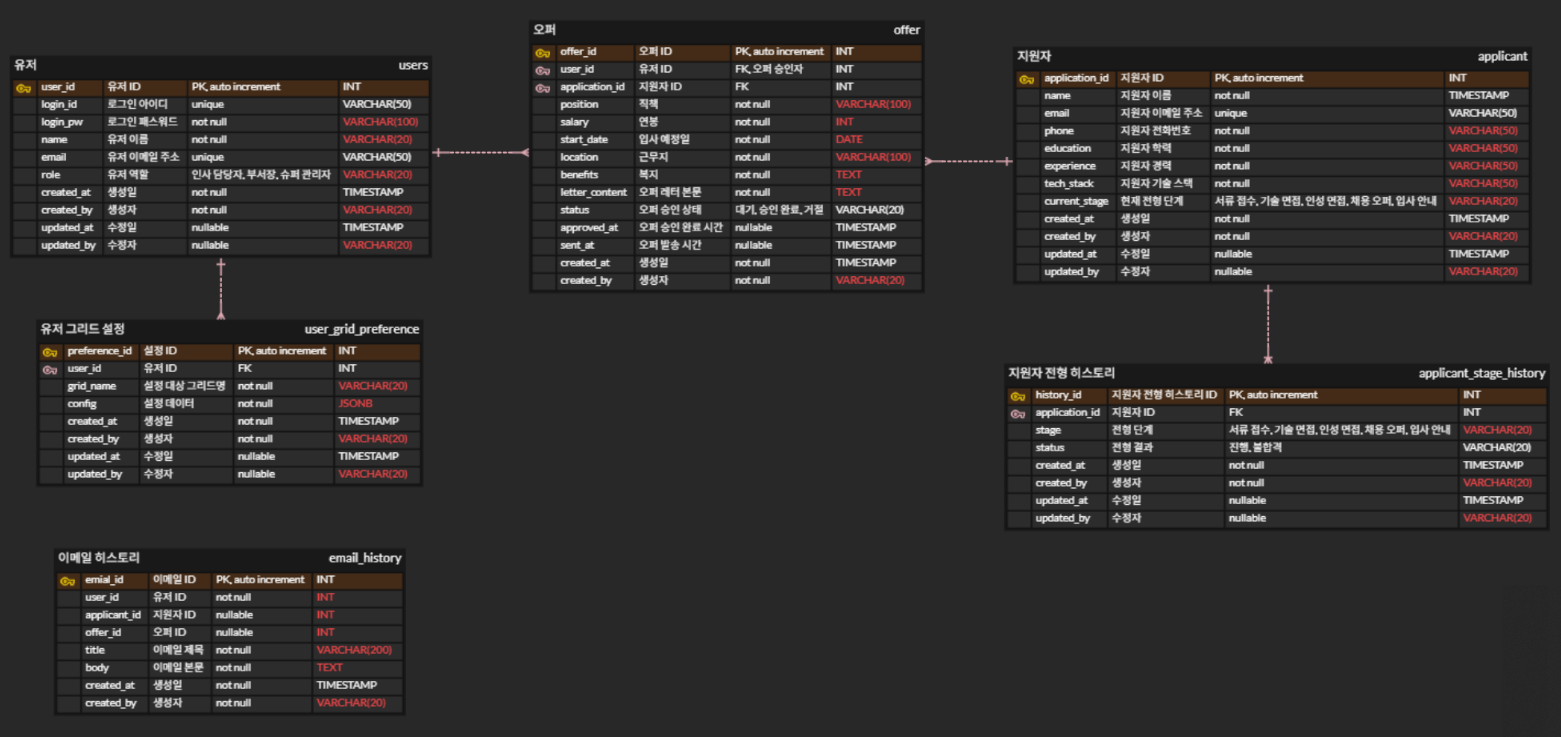
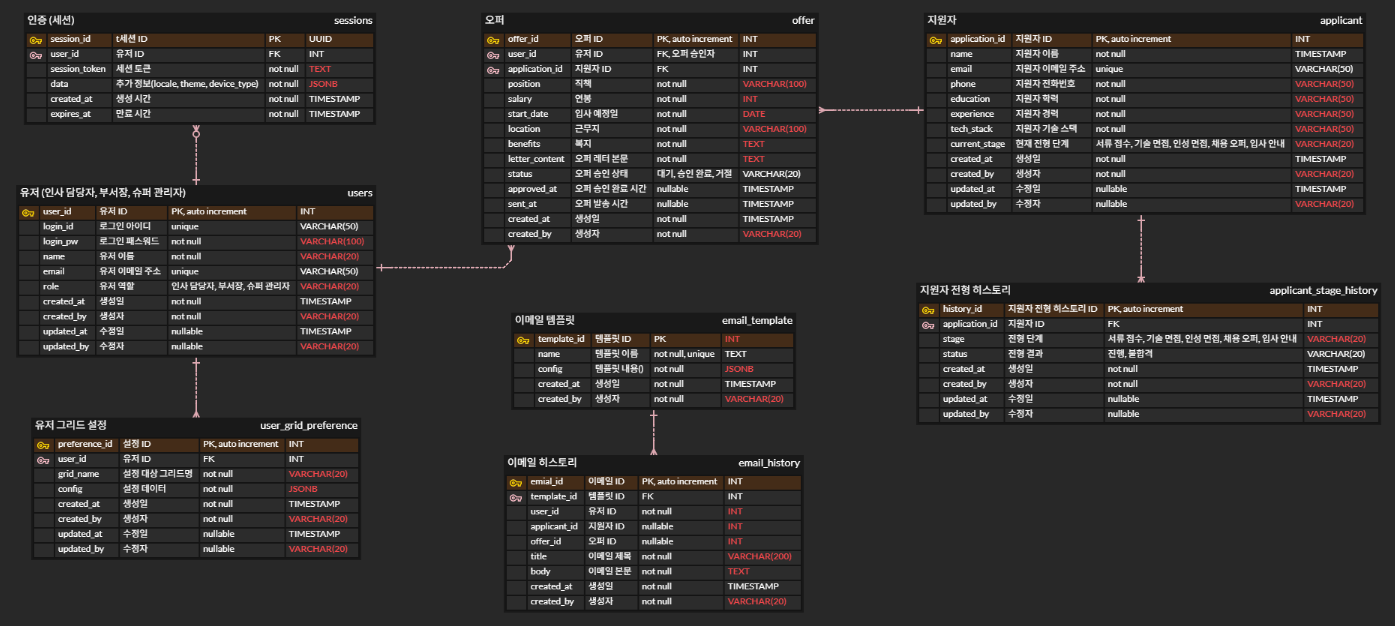
docs: README.md - 요구사항 수정

diff --git a/README.md b/README.md
@@ -26,7 +26,7 @@
 - **컬럼 검색**: 헤더에서 컬럼 이름으로 빠른 검색
 - **설정 저장·복원**: 서버 저장 후 **재접속 시 자동 복원**
 
-<br>
+<br><br>
 
 ### 🎯 채용 오퍼 (Offer)
 
@@ -38,6 +38,7 @@
 | 승인 진행 상태 표시   | 오퍼 생성 후 **승인 대기** 상태를 **아이콘·레이블**로 직관적으로 표시할 수 있어야 한다.                              |
 | 승인 이력 조회        | 생성된 오퍼 레터 클릭 시 각 승인권자의 **처리 상태(승인·대기·거절)** 및 **코멘트**를 확인할 수 있어야 한다.          |
 | 메일 전송 활성화 조건 | **모든 승인권자**가 **승인 완료** 상태일 때만 **[전송하기]** 버튼이 활성화되며, 클릭 시 이메일 발송이 가능해야 한다. |
+| 메일 템플릿 조회      | 셀렉트 박스로 사전에 등록된 메일 템플릿을 선택하여 조회할 수 있어야한다.                                             |
 
 <br>
 
@@ -45,10 +46,10 @@
 
 #### 🔹 오퍼 생성
 
-| **기능**                | **설명**                                                                            |
-| ----------------------- | ----------------------------------------------------------------------------------- |
-| **Step 1: 항목값 입력** | 제안 연봉, 직무, 입사일, 복지사항 등 필수 입력 폼 제공                              |
-| **Step 2: 레터 편집**   | 자동 생성된 **템플릿 제목·본문**에 Step1 값을 반영, **에디터**로 자유롭게 수정 가능 |
+| **기능**                | **설명**                                                                       |
+| ----------------------- | ------------------------------------------------------------------------------ |
+| **Step 1: 항목값 입력** | 제안 연봉, 직무, 입사일, 복지사항 등 필수 입력 폼 제공                         |
+| **Step 2: 레터 편집**   | 선택된 **템플릿 제목·본문**에 Step1 값을 반영, **에디터**로 자유롭게 수정 가능 |
 
 <br>
 
@@ -59,6 +60,17 @@
 | 기본 승인 요청 | 오퍼 생성 완료 시 **지정된 모든 승인권자**에게 **동시 승인 요청** 및 이메일 알림 발송 |
 | 승인 완료 조건 | 지정된 모든 승인권자가 **승인 완료**를 해야 **오퍼 전송** 기능이 활성화               |
 | 승인 거절 처리 | 한 명이라도 **거절** 시 전체 오퍼 상태를 **거절**로 전환                              |
+
+<br><br>
+
+### 🎯 로그인/로그아웃 관리
+
+#### ✨ 비즈니스 요구사항
+
+| **요구사항** | **설명**                                                                                          |
+| ------------ | ------------------------------------------------------------------------------------------------- |
+| 로그인       | 로그인 아이디와 로그인 패스워드로 유저(인사 담당자, 부서장, 슈퍼 관리자)를 인증할 수 있어야 한다. |
+| 로그아웃     | 로그아웃 시, 인증이 필요한 정보들에 접근할 수 없어야 한다.                                        |
 
 <br><br>
 
